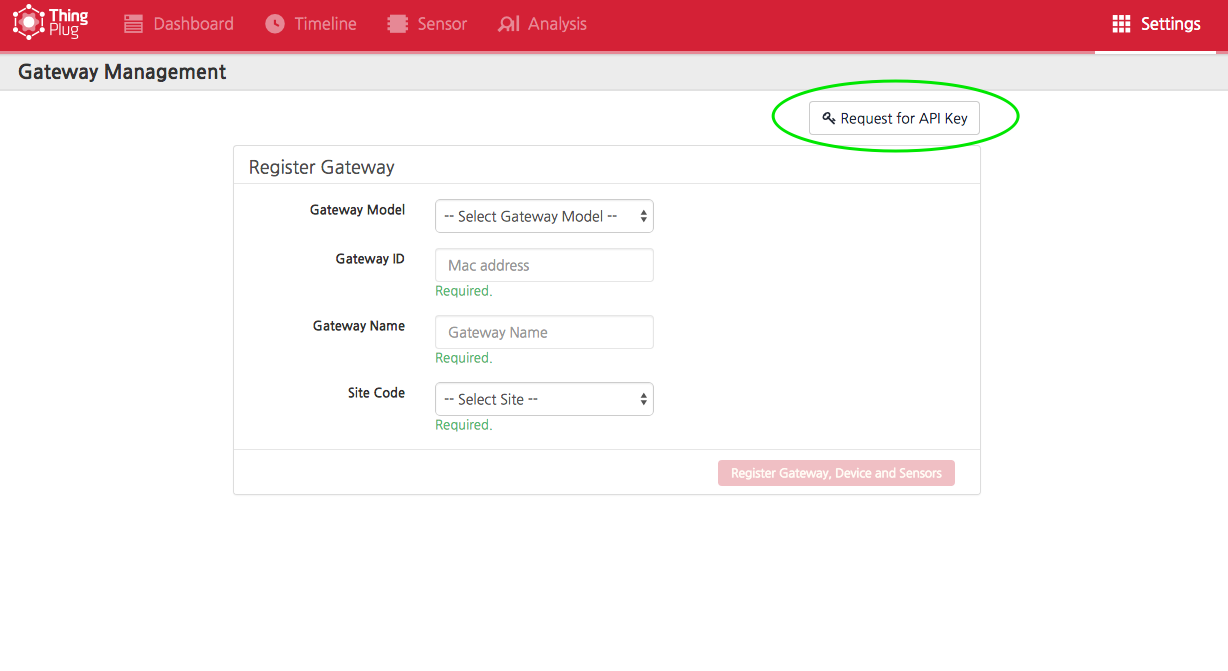
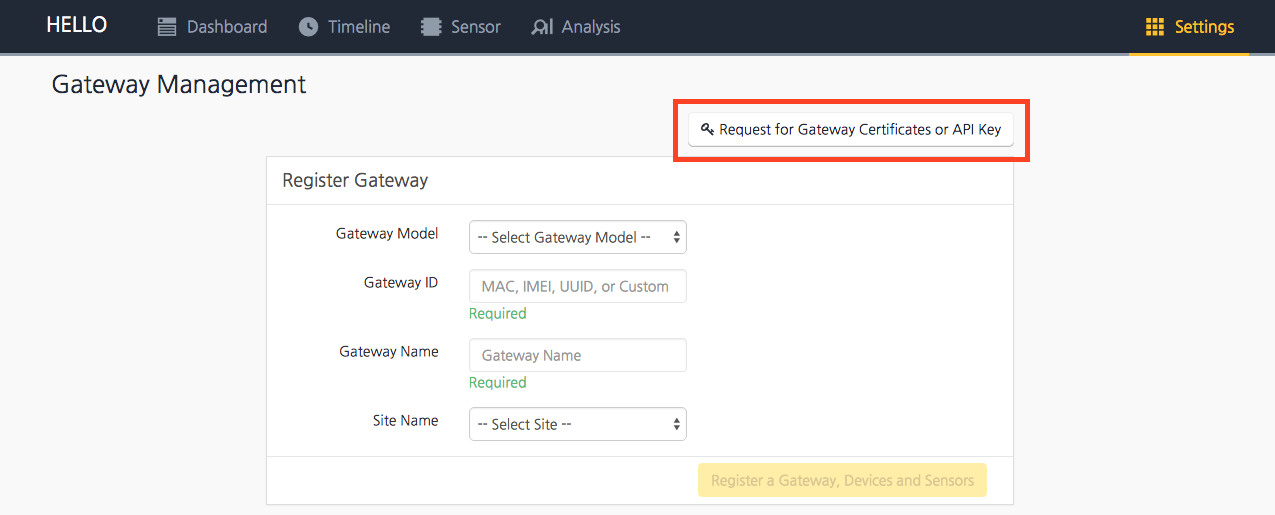
update uesr-guide/registration.md in English

diff --git a/_posts/en/posts/user-guide/2015-9-8-en_help_userRegisteration.md b/_posts/en/posts/user-guide/2015-9-8-en_help_userRegisteration.md
@@ -62,110 +62,117 @@ User guide for a progress as hardware synchronization and user sign up.
 ### Gateway Registration
 <br>
 
-#### BeagleBone Black
+#### BeagleBone Black and Raspberry Pi 2
 
-1) BeagleBone Black에 접속 후 Thing+ Embedded 패키지가 설치된 디렉토리의 `scripts` 디렉토리로 이동한다.
+1) Connect to a BeagleBon Black/Raspberry Pi 2 over SSH and go to `scripts` directory under the path which Thing+ Embedded package is inalled on.
 
 ```bash
-@BBB:$ cd /usr/local/tp/scripts
+@shell:$ cd /usr/local/tp/scripts
 ```
 
-2) BeagleBone Black의 MAC 어드레스를 얻어 클립보드에 복사한다.
+2) Get a MAC Address of the device and copy it to the clipboard.
 
 ```bash
-@BBB:$ ./getmac
+@shell:$ ./getmac
 Your MAC address is as below
-xx:xx:xx:xx:xx:xx
+xx:xx:xx:xx:xx:xx   <= Copy this line
 ```
 
-3) **사용자 PC**의 크롬브라우저를 열고 "[서비스 웹사이트](https://www.thingplus.net)"에 로그인한다.
+3) Open the web browser on **your PC** and sign in "[Service Website](https://www.thingplus.net)".
+- We recommend to use the Chrome Browser
 
 
-4) `설정` --> `게이트웨이 관리` 버튼을 누른다.
-![gateway_management](/assets/gateway_management_ko.png)
-
-<br/>
-5) `(+)` 버튼을 누른다.
-![register_gateway](/assets/register_gateway_ko.png)
+4) Click the `Settings`button and `Gateway Management`button.
+![gateway_management](/assets/gateway_management_en.png)
 
 <br/>
-6) `게이트웨이 API 키 발급받기` 버튼을 누른다.
-![register_with_apikey](/assets/register_with_apikey_ko.png)
+5) Click the `(+)`button.
+![register_gateway](/assets/register_gateway_en.png)
 
 <br/>
-7) 클립보드에 복사했던 MAC 어드레스를 `게이트웨이 아이디`에 붙여넣기 하고 `게이트웨이 API 키 등록 진행` 버튼을 누른다.
-![macaddress](/assets/macaddr_getapikey_ko.png)
+6) Click teh `Request for Gateway Certificates or API Key`button.
+![register_with_apikey](/assets/register_with_apikey_en.png)
 
 <br/>
-8) API 키를 클립보드에 복사한다.
-![get_apikey](/assets/get_apikey_ko.png)
+7) Input the MAC address you copied to the `Gateway ID` form and Click the `Get API Key`button.
+![macaddress](/assets/macaddr_getapikey_en.png)
 
 <br/>
-9) **BeagleBone Black에 로그인했던 터미널**에서 아래처럼 게이트웨이를 실행한다.
+8) Copy the generated API Key in the below green box.
+![get_apikey](/assets/get_apikey_en.png)
+
+<br/>
+9) Run Thing+ Gateway S/W with the following commands on the connected terminal with your device.
 
 ```bash
-@BBB:$ cd /usr/local/tp
-@BBB:$ APIKEY='복사한 API 키' ./tp.sh start; ./driver.sh start
+@shell:$ cd /usr/local/tp
+@shell:$ APIKEY='copied_api_key' ./tp.sh start; ./driver.sh start
 ```
 
-- 예제
+- Exmaple
 
 ```bash
-@BBB:$ cd /usr/local/tp
-@BBB:$ APIKEY='A7i3kT9w1-9xWVk447-oJ=' ./tp.sh start; ./driver.sh start
+@shell:$ cd /usr/local/tp
+@shell:$ APIKEY='A7i3kT9w1-9xWVk447-oJ=' ./tp.sh start; ./driver.sh start
 ```
 
-> 주의: APIKEY는 모두 대문자로 써야하며, `복사한 API 키`는 앞뒤를 작은따옴표(')로 감싸야 한다.
+> Notice: The parameter name, 'APIKEY', should be all the capital letters. In case of 'Copied API Key', and, it should be in between Single Question Marks('), like 'copied_api_key'.
 
-10) BeagleBone Black의 `/etc/rc.local`의 `exit 0` 명령 바로 위에 아래처럼 추가한다.
+10) Open `/ect/rc.local` and add the below 2 lines right ahead the `exit 0` line.
 
 ```bash
-@BBB:$ nano /etc/rc.local
+@shell:$ nano /etc/rc.local
 ...
-(cd /usr/local/tp; ./driver.sh start)         # 추가
-(cd /usr/local/tp; ./tp.sh start)             # 추가
+(cd /usr/local/tp; ./driver.sh start)         # Added line
+(cd /usr/local/tp; ./tp.sh start)             # Added line
 
 exit 0
 ```
 
-   - 파일 수정 후 저장은 `CTRL-O`키를 누른 후, 엔터키를 누르고, 종료할 때는 `CTRL-X`키를 누른다.
+   - Press `CTRL-O` and Enter to overwrite the changes and press `CTRL-X` to close the file you've modified.
 
-11) **크롬 브라우저**에서 다시 MAC 어드레스를 복사한다.
+11) Copy the MAC Address from the **web browser** you got the API Key.
 
-   - 페이지를 다른 곳으로 이동하여 MAC 어드레스를 복사할 수 없는 경우는 `3. BeagleBone Black 등록`의 방법을 통해 다시 MAC 어드레스를 복사한다.
+   - If you alread moved to another webpage and can NOT copy the MAC address, please refer `2) Get a MAC address` to get it again.
 
-12) `게이트웨이 등록하기`버튼을 누른다.
-![copy_apikey](/assets/copy_apikey_ko.png)
-
-<br/>
-
-13) `게이트웨이 모델`에서 `Neuromeka Rev2.1`을 선택한다.
-![select_gwmodel](/assets/select_gwmodel_ko.png)
+12) Click the `Register Gateway`button.
+![copy_apikey](/assets/copy_apikey_en.png)
 
 <br/>
 
-14) `게이트웨이 아이디`에 MAC 어드레스를 붙여넣기 하고 게이트웨이 이름을 입력한다.
-![select_gwmodel](/assets/inputmac_name_ko.png)
+13) Choose a gateway model.
+- For BeagleBone Black: `Neuromeka Rev2.1`
+![select_gwmodel](/assets/select_gwmodel_beagle_en.png)
+- For Raspberry Pi 2: `Raspberry Pi - Developer`
+![select_gwmodel](/assets/select_gwmodel_raspberry_en.png)
 
 <br/>
 
-15) `디바이스 모델`에서 `Basic Model Rev2.1`을 선택한다.
-![select_devicemodel](/assets/select_devicemodel_ko.png)
+14) Input the MAC address of your device to `Gateway ID` form and input your gateway name to `Gateway Name` form.
+![select_gwmodel](/assets/inputmac_name_en.png)
 
 <br/>
 
-16) `게이트웨이, 디바이스, 센서 등록 진행` 버튼을 누른다.
+15) Choose a device model.
+- For BeagleBone Black: `Basic Model Rev2.1`
+![select_devicemodel](/assets/select_devicemodel_beagle_en.png)
+- For Raspberry Pi 2: `GrovePi+ Starter Kit`
+![select_devicemodel](/assets/select_devicemodel_raspberry_en.png)
+
+<br/>
+
+16) Click the `Register a Gateway, Devices and Sensors` button.
 ![register](/assets/register_ko.png)
 
 <br/>
 
-17) 등록 성공 시 `Success` 팝업 메시지가 화면에 출력된다.
+17) You can see the `Success` popup message when the registration is completed
 
 <br>
 
-18) `센서목록` 메뉴에서 등록된 게이트웨이를 확인할 수 있다.
+18) You can see the registred Gateway from the `Sensor List` Menu
 
-  - 센서는 게이트웨이(BeagelBone Black)에 의해 자동적으로 등록되며, 게이트웨이 등록 후 1분 이내에  최종 등록 완료된다.
-  - 센서값은 게이트웨이에서 수집되고 주기적으로 서버에 전송하기 때문에 센서값을 서비스 사이트에서 볼 수 있기까지 몇 분이 소요된다.
+  - Sensor(s) is registered automatically by the Gateway(BeagleBone Black / Raspberry Pi 2) within 1 minute after you complete to register your gateway
+  - Values your Sensor are periodically aggregated and delivered to Thing+ Cloud by the Thing+ Gateway Software. You can see the values from Thing+ Portal after several minutes.
 
 <br>
